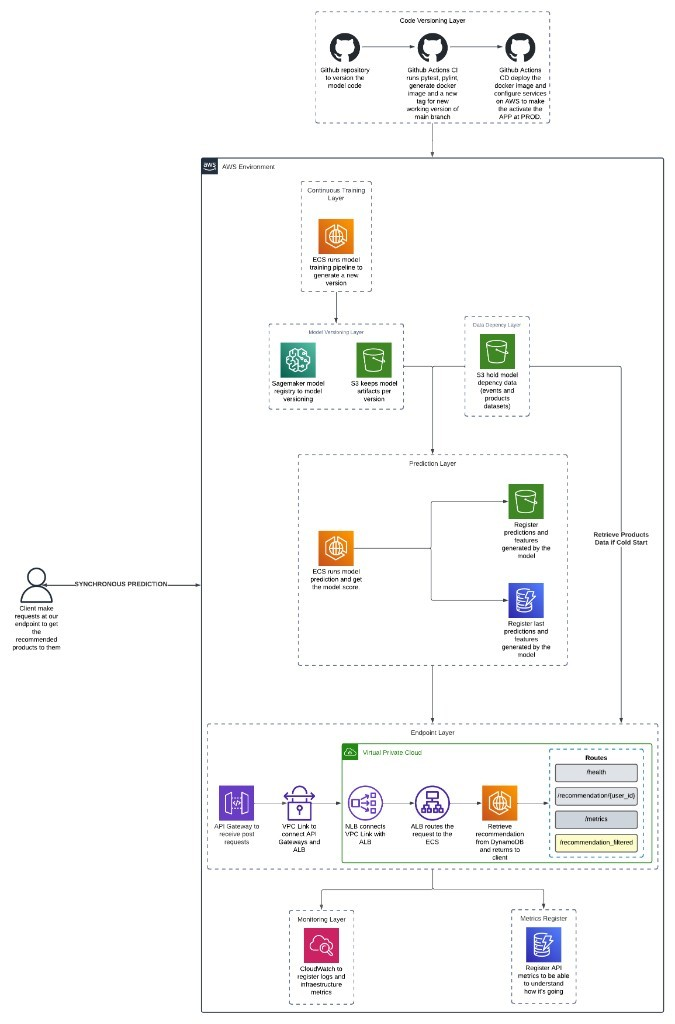
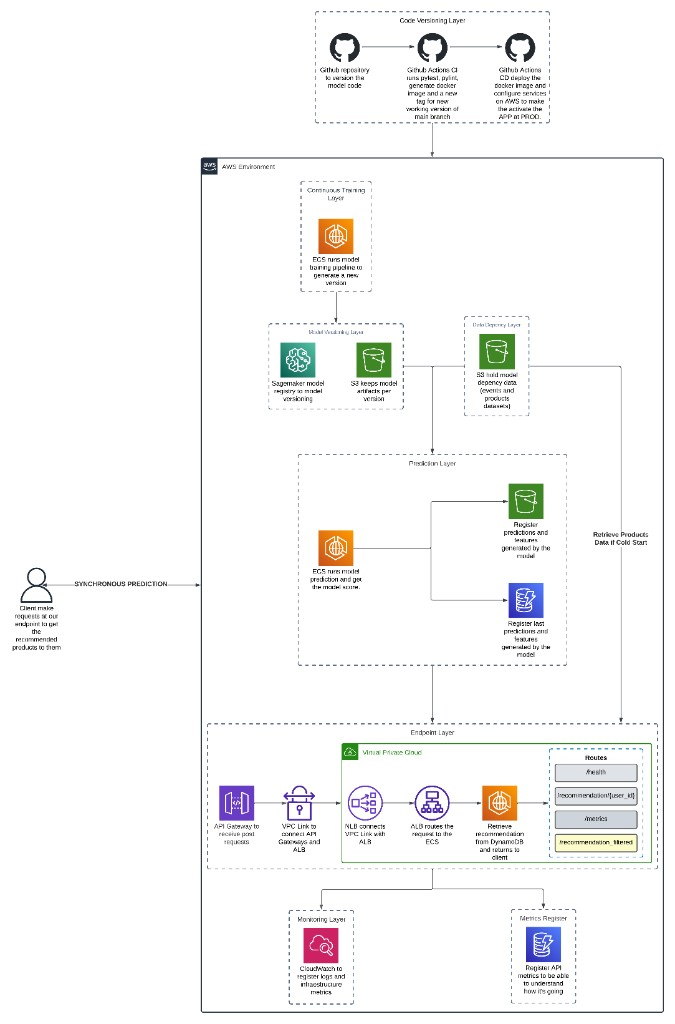
feat: adding architecture

diff --git a/SOLUTION.md b/SOLUTION.md
@@ -402,4 +402,3 @@ Lista completa nos `load_config()` de cada `main.py` e nos outputs do Terraform 
 
 - Model card: `model/model_card.json`
 - Notebook de testes de endpoint: `notebooks/testing_endpoint.ipynb`
-- Exemplo tfvars: `terraform/terraform.tfvars.example`
